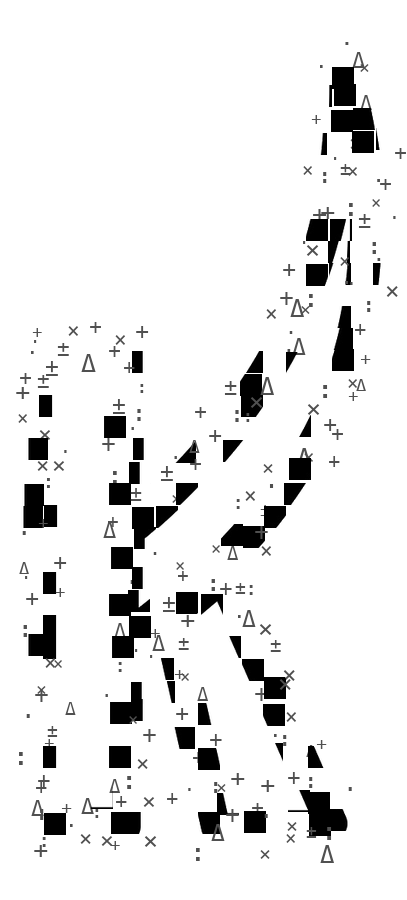
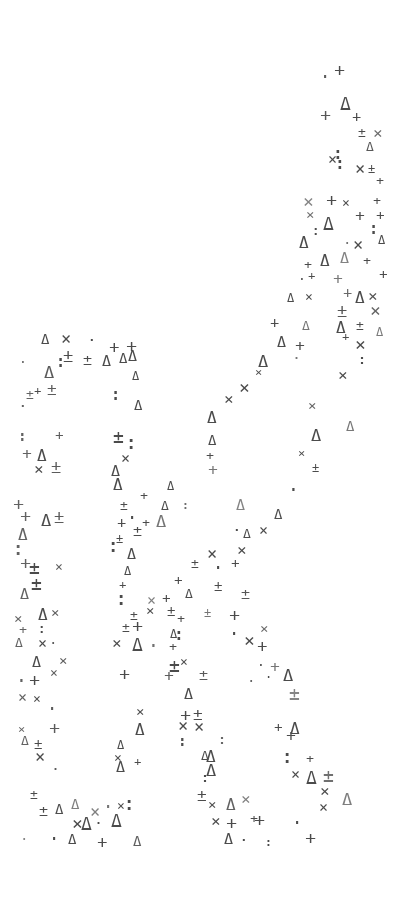
puu

diff --git a/index.html b/index.html
@@ -91,9 +91,9 @@
         </div>
         <div class="hero__klogo" aria-hidden="true">
           <img src="assets/brand/k-mark.png?v=3" alt="">
-          <img src="assets/brand/k-dissolve-1.png?v=3" alt="">
-          <img src="assets/brand/k-dissolve-2.png?v=3" alt="">
-          <img src="assets/brand/k-dissolve-3.png?v=3" alt="">
+          <img src="assets/brand/k-dissolve-1.png?v=4" alt="">
+          <img src="assets/brand/k-dissolve-2.png?v=4" alt="">
+          <img src="assets/brand/k-dissolve-3.png?v=4" alt="">
         </div>
         <div class="hero__subline" data-reveal="rise">
           <p>Mechanical Engineering — TU Wien · Design / CFD / Propulsion / Structures</p>
